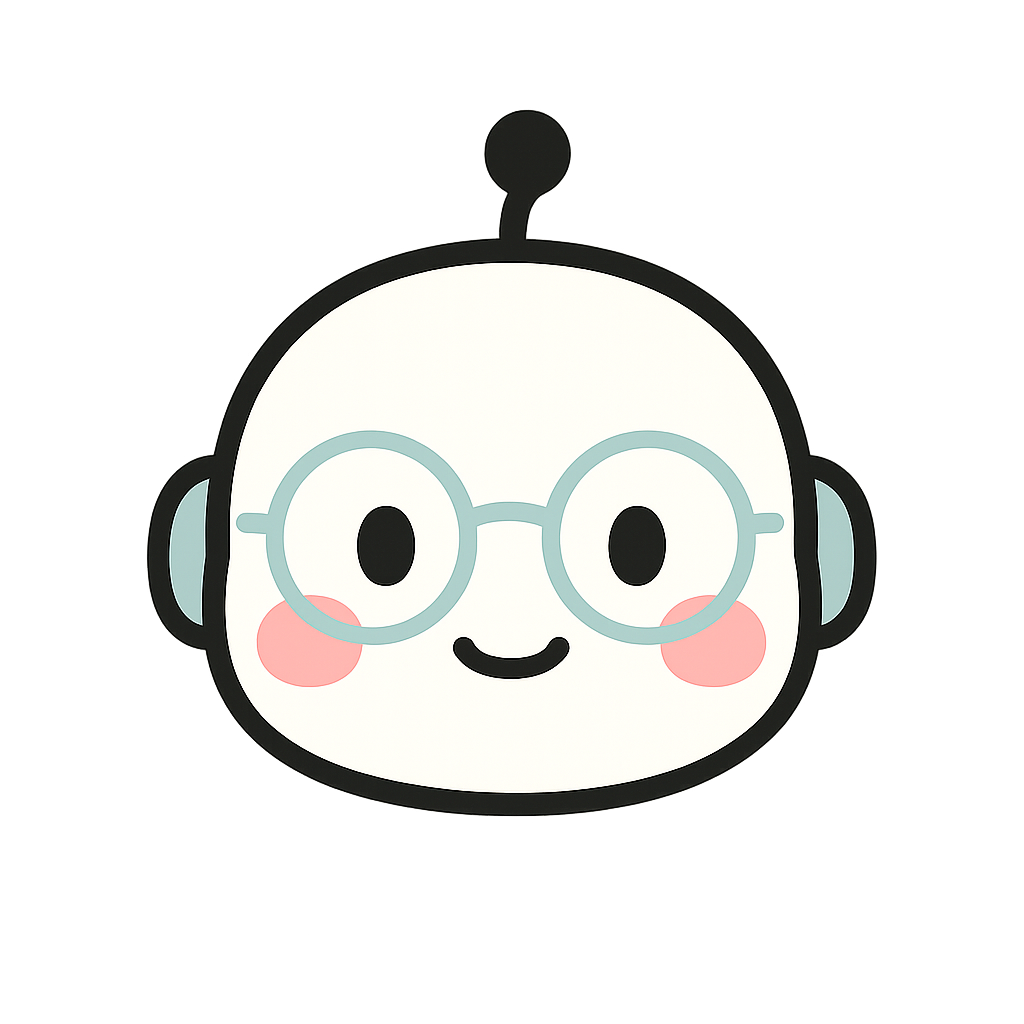
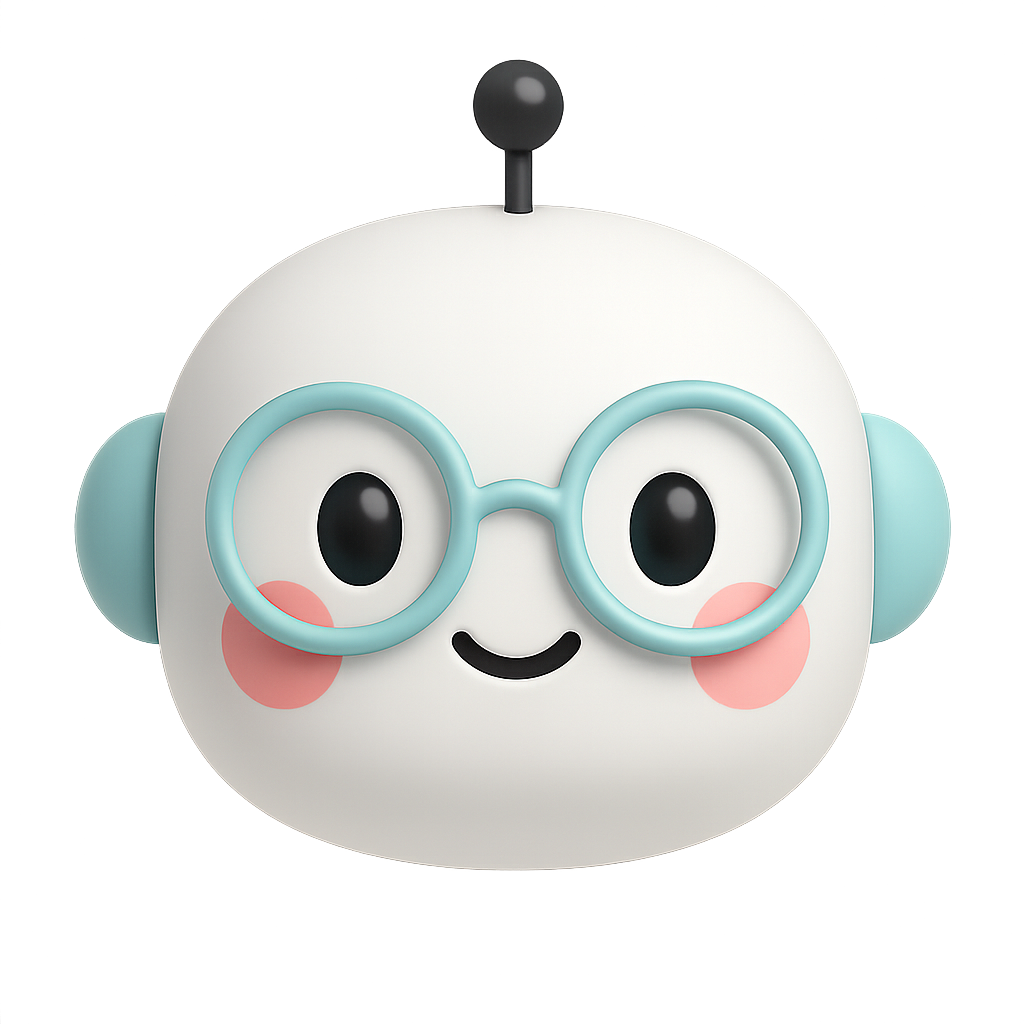
style: 챗봇 사진 3D로 변경

diff --git a/index.html b/index.html
@@ -6,7 +6,7 @@
       rel="stylesheet"
       href="https://cdn.jsdelivr.net/npm/reset-css@4.0.1/reset.min.css"
     />
-    <link rel="icon" type="image/svg+xml" href="/vite.svg" />
+    <link rel="icon" type="image/svg+xml" href="/favicon.jpeg" />
     <meta name="viewport" content="width=device-width, initial-scale=1.0" />
     <title>하루걸음</title>
   </head>

diff --git a/src/loading/Loading.tsx b/src/loading/Loading.tsx
@@ -1,6 +1,6 @@
 import React, { useEffect, useState } from "react";
 import styles from "./loading.module.css";
-import ChatBot from "../assets/ChatBot.png";
+import ChatBot from "../assets/ChatBot2D.png";
 
 interface LoadingProps {
   width?: string;
